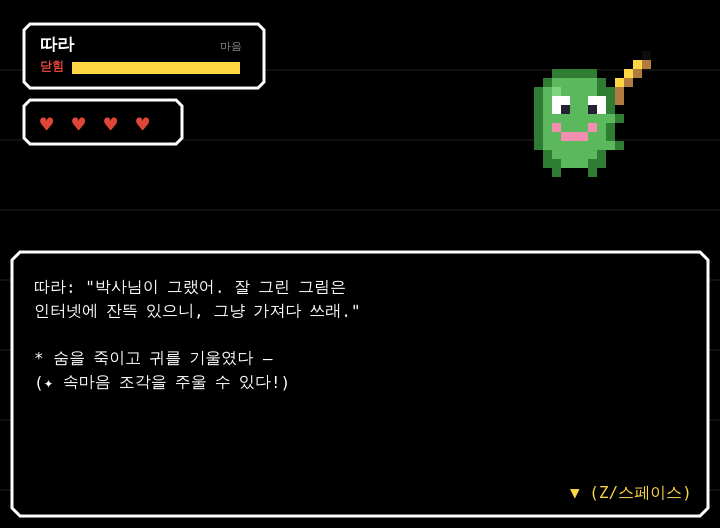
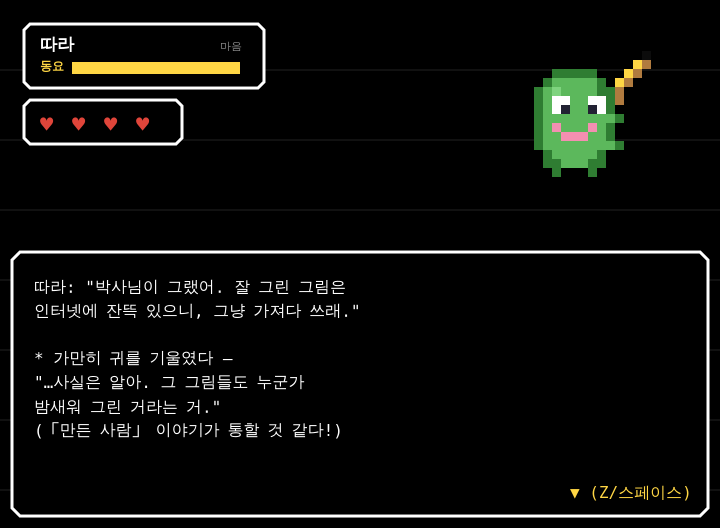
설득 배틀: 속마음 조각 줍기 폐지 — 「가만히 듣기」 즉시 공개
- 듣기 선택 시 상대의 주장 + 속마음(hint)이 한 반응 대사로 바로
  흐른다. 게이지 +6·닫힘 해제 카운트도 즉시 반영 — ✦를 쫓아다니는
  수집 조작 제거
- 속마음 대사가 「어떤 말을 걸어야 할지」 힌트를 그대로 담고 있어
  듣기 → 말 걸기 루프가 더 또렷해짐
- 탄막 턴은 순수 회피(버티기)로 단순화 — 무피격 보너스(+6)와
  보스 기믹(꾸러미·구슬·[진/낚]·유혹·축소·어둠)은 유지
- spawnFragment/collectFragment 및 조각 렌더 제거, 튜토리얼/조작
  안내 문구 갱신, 스모크 961·봇·브라우저·스크린샷 재검증

Claude-Session: https://claude.ai/code/session_01RXReF8edwA3edDtziqoQ8G

Changed region(s): [[0.0306, 0.6667, 0.4583, 0.8485], [0.0611, 0.0909, 0.0917, 0.1515]]

diff --git a/src/game.js b/src/game.js
@@ -4542,7 +4542,7 @@
       game.flags.sawPersuadeTip = true;
       lines.push(
         '[마음 조각 배틀]\n서로 번갈아 이야기해요.\n내 차례엔 「말 걸기·증거·듣기·안아 주기」\n중 하나를 골라요.',
-        '상대 차례엔 ' + (isTouchDevice ? '스틱' : '화살표') + '로 하트를 움직여\n마음의 파도(탄막)를 피해요.\n「가만히 듣기」를 고르면 ✦ 속마음이 떨어져요.',
+        '「가만히 듣기」로 속마음을 들으면\n마음이 조금 열리고, 힌트를 얻어요.\n상대 차례엔 ' + (isTouchDevice ? '스틱' : '화살표') + '로 하트를 움직여\n마음의 파도(탄막)를 피해요.',
         '이름이 노랗게 변하면 —\n「마음 안아 주기」로 배틀이 끝나요.\n하트가 다 닳으면 잠시 물러났다 다시 와요.'
       );
     }
@@ -4630,7 +4630,7 @@
     game.flags.battleCount += 1;
     enterMenuPhase(game.battle);
     if (game.battle.prologueTutorial) {
-      pushFloat('* 먼저 「가만히 듣기」로\n속마음 조각 ✦을 주워 보자.');
+      pushFloat('* 먼저 「가만히 듣기」로\n속마음을 들어 보자.');
     }
   }
 
@@ -4734,11 +4734,18 @@
       b.subIdx = 0; b.phase = 'sub'; Sound.select();
       return;
     }
-    if (idx === 2) { // 가만히 듣기
-      b.listenTurn = true;
+    if (idx === 2) { // 가만히 듣기 — 주장 + 속마음이 즉시 흐른다 (조각 줍기 없음)
       Sound.select();
       const claim = currentClaim();
-      setReact(b, `${b.mon.name}: "${claim.text}"\n\n* 숨을 죽이고 귀를 기울였다 —\n(✦ 속마음 조각을 주울 수 있다!)`, 'wave');
+      const inner = claim.hint ||
+        ((claim.fragments && claim.fragments.length) ? claim.fragments.join('\n') : '……');
+      // 들어 준 만큼 마음이 조금 열린다 — 닫힘 해제(closedThreshold)와 게이지 소폭 상승
+      const n = b.p.fragmentsPerWave || 3;
+      b.fragmentTotal += n;
+      pStats().fragments += n;
+      b.gauge = clamp(b.gauge + n * 2, 0, b.gaugeMax);
+      persuadeGaugeSync(b);
+      setReact(b, `${b.mon.name}: "${claim.text}"\n\n* 가만히 귀를 기울였다 —\n${inner}`, 'wave');
       return;
     }
     // 마음 안아 주기
@@ -4822,16 +4829,7 @@
     }
   }
 
-  // ── 파도(wave): 탄막을 피하며 속마음 조각 ✦을 줍는다 ──
-  function spawnFragment(w, box, claim, i) {
-    const lines = (claim.fragments && claim.fragments.length) ? claim.fragments : [claim.hint || '…'];
-    return {
-      x: box.x + 30 + Math.random() * (box.w - 60),
-      y: box.y + 30 + Math.random() * (box.h - 60),
-      ttl: 360, // 6초 후 소멸·재스폰
-      line: lines[i % lines.length],
-    };
-  }
+  // ── 파도(wave): 상대 턴 — 탄막을 피하며 버틴다 ──
   function enterWave() {
     const b = game.battle;
     const claim = currentClaim();
@@ -4847,14 +4845,10 @@
     if (b.pIntense) { sf *= 1.3; rateMul *= 0.75; b.pIntense = false; }
     b.arena.sf = sf; b.arena.rateMul = rateMul; b.arena.bullets = []; b.arena.spiralA = 0; b.arena.inv = 0;
     b.arena.carrying = false;
-    // 속마음 조각 ✦은 「가만히 듣기」를 고른 턴에만 나온다 (M-2 턴제)
-    const n = b.listenTurn ? (b.p.fragmentsPerWave || 3) : 0;
-    b.listenTurn = false;
-    const frags = [];
-    for (let i = 0; i < n; i++) frags.push(spawnFragment(null, box, claim, i));
     b.wave = {
       t: 0, dur: b.p.waveDur || 300, spawnTimer: 30,
-      fragments: frags, fragTotal: n, collected: 0, hits: 0,
+      // fragments는 폐지(듣기 즉시 공개) — 기믹·테스트 호환을 위해 빈 배열 유지
+      fragments: [], fragTotal: 0, collected: 0, hits: 0,
       // 담아(보스) open 페이즈 고유 기믹 — 「정보 꾸러미」 운반
       // 배달 진행은 파도가 바뀌어도 이어진다 (한 파도 안에 3배달은 사실상 불가능하므로)
       parcel: { obj: null, deliveries: b.parcelDeliveries || 0, spawnTimer: 90,
@@ -4878,19 +4872,6 @@
       b.wave.spawnTimer += 30; // 예고가 끝난 뒤에야 첫 탄막이 나온다
     }
     if (game.tts) Speech.speak(claim.text);
-  }
-
-  function collectFragment(b, fi) {
-    const w = b.wave;
-    const f = w.fragments[fi];
-    pushFloat(f.line);
-    b.gauge = clamp(b.gauge + 2, 0, b.gaugeMax);
-    pStats().fragments += 1;
-    b.fragmentTotal += 1;
-    w.collected += 1;
-    w.fragments.splice(fi, 1); // 주운 조각은 사라진다 (미수집분만 6초 후 재스폰)
-    Sound.correct();
-    persuadeGaugeSync(b);
   }
 
   function moveSoul(arena, box, speedMul) {
@@ -4958,15 +4939,6 @@
 
     if (bulletHits(b, arena)) { w.hits += 1; if (b.playerHp <= 0) { persuadeExhaust(); return; } }
 
-    // 속마음 조각 ✦ — 접촉 수집 / 6초 지나면 재스폰
-    for (let i = w.fragments.length - 1; i >= 0; i--) {
-      const f = w.fragments[i];
-      f.ttl -= 1;
-      const dx = f.x - arena.soul.x, dy = f.y - arena.soul.y;
-      if (dx * dx + dy * dy < (SOUL_R + 9) * (SOUL_R + 9)) { collectFragment(b, i); continue; }
-      if (f.ttl <= 0) w.fragments[i] = spawnFragment(null, box, currentClaim(), i);
-    }
-
     // 담아(보스) open 페이즈 — 「정보 꾸러미」 운반 기믹
     if (b.p.openMechanic === 'parcel' && b.pState === 'open') updateParcel(b);
     // 기울(보스) open 페이즈 — 기울어지는 상자: 「반례 구슬」 운반 기믹
@@ -4983,8 +4955,8 @@
     // 게이지 만충 — 탄막 턴을 바로 끝내고 내 턴으로 (「마음 안아 주기」 마무리)
     if (b.gauge >= b.gaugeMax) { enterMenuPhase(b); return; }
 
-    // 탄막 턴 종료: (듣기 턴) 조각을 다 모으거나 / 시간 만료 → 내 턴(메뉴)으로
-    if ((w.fragTotal > 0 && w.collected >= w.fragTotal) || w.t >= w.dur) {
+    // 탄막 턴 종료: 시간 만료 → 내 턴(메뉴)으로
+    if (w.t >= w.dur) {
       if (w.hits === 0) { b.gauge = clamp(b.gauge + 6, 0, b.gaugeMax); pStats().perfectWaves += 1;
         pushFloat('* 끝까지 들어 줬다 — 마음 +6'); persuadeGaugeSync(b); }
       enterMenuPhase(b);
@@ -8794,11 +8766,8 @@
   function drawPersuadeArena(b) {
     const arena = b.arena, box = arena.box;
     // 인물의 외침 + 조작 안내
-    const listening = b.wave && b.wave.fragTotal > 0;
     drawArenaGuide(box, b.attack ? b.attack.taunt : null,
-      listening
-        ? (b.prologueTutorial ? '마음 안쪽: ✦ 속마음 조각을 주워요. 탄막은 피하고!' : '✦를 주워 속마음을 들어요. 탄막은 피하고!')
-        : '탄막을 피하며 버텨요 — 곧 내 차례가 온다!');
+      b.prologueTutorial ? '마음의 파도: 탄막을 피하며 버텨요 — 곧 내 차례!' : '탄막을 피하며 버텨요 — 곧 내 차례가 온다!');
 
     if (b.prologueTutorial) {
       ctx.textAlign = 'left';
@@ -8851,14 +8820,7 @@
         ctx.fillText('…!', box.x + box.w / 2, box.y - 12);
         ctx.textAlign = 'left';
       }
-      // 속마음 조각 ✦ (사라지기 직전 깜빡)
       ctx.textAlign = 'center';
-      for (const f of b.wave.fragments) {
-        if (f.ttl < 60 && Math.floor(game.time / 6) % 2 === 0) continue;
-        ctx.fillStyle = '#ffd644';
-        ctx.font = 'bold 18px monospace';
-        ctx.fillText('✦', f.x, f.y + 6);
-      }
       // 담아(보스) 정보 꾸러미 + 돌려주기 구멍
       if (b.p.openMechanic === 'parcel' && b.pState === 'open') {
         const pc = b.wave.parcel;

diff --git a/tools/playbot.js b/tools/playbot.js
@@ -133,7 +133,7 @@ const firstBattleTaps = dialogTaps;
 // 마음 조각 배틀 — 서툰 회피(입력 없음)로 파도를 흘려보내고, 문만 정확히 고른다
 function crudeWin() {
   // M-2 턴제: [내 턴 메뉴] ↔ [상대 턴 탄막]을 오가며 최선 플레이로 마음을 연다.
-  //   닫힘 → 가만히 듣기(조각 수집), 동요/열림 → 말 걸기 정답(잠기면 듣기),
+  //   닫힘 → 가만히 듣기(속마음 즉시 공개), 동요/열림 → 말 걸기 정답(잠기면 듣기),
   //   만충(spareReady) → 마음 안아 주기 → 자비.
   let guard = 0;
   while (g.mode === 'battle' && guard++ < 20000) {
@@ -151,17 +151,10 @@ function crudeWin() {
     } else if (b.phase === 'react') {
       tap('z'); dialogTaps += 1;
     } else if (b.phase === 'wave') {
-      // 조각이 있으면 주워 게이지를 올린다 (하트 순간이동 = 최선 플레이 가정)
-      if (b.wave.fragments.length) {
-        const f = b.wave.fragments[0];
-        b.arena.soul.x = f.x; b.arena.soul.y = f.y;
-        step(1);
-      } else {
-        // 조각 없는 탄막 턴은 피격 없이 빨리 감기
-        b.arena.bullets.length = 0; b.arena.inv = 999;
-        b.wave.t = b.wave.dur; b.wave.hits = 1;
-        step(1);
-      }
+      // 탄막 턴은 피격 없이 빨리 감기 (조각 줍기는 폐지 — 듣기 즉시 공개)
+      b.arena.bullets.length = 0; b.arena.inv = 999;
+      b.wave.t = b.wave.dur; b.wave.hits = 1;
+      step(1);
     } else if (b.phase === 'mercy') {
       while (g.battle.cursor !== 0) tap('ArrowDown');
       tap('z');

diff --git a/sw.js b/sw.js
@@ -1,7 +1,7 @@
 // AI 윤리 어드벤처 — 오프라인 서비스워커
 // 모든 정적 자원을 처음 방문 때 캐시해, 이후 네트워크 없이도 실행되게 한다.
 // 게임 코드/콘텐츠가 바뀌면 CACHE 버전을 올리면 된다.
-const CACHE = 'ai-ethics-adventure-fb4064ee';
+const CACHE = 'ai-ethics-adventure-e658ad46';
 const ASSETS = [
   './',
   './index.html',
